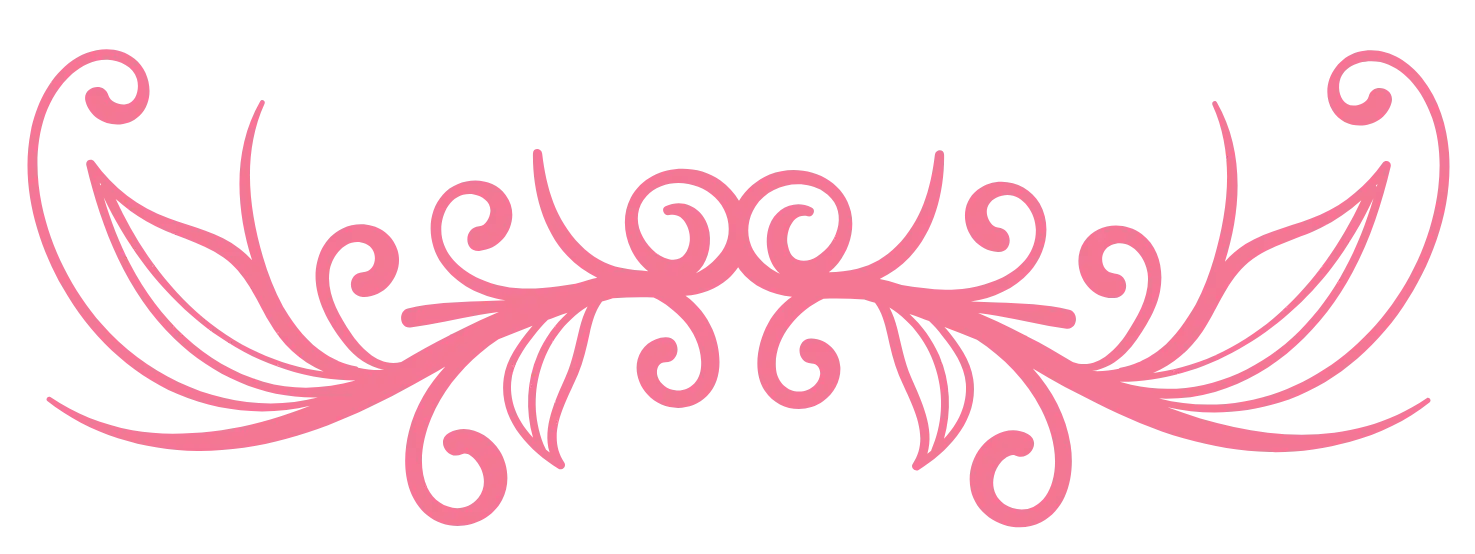
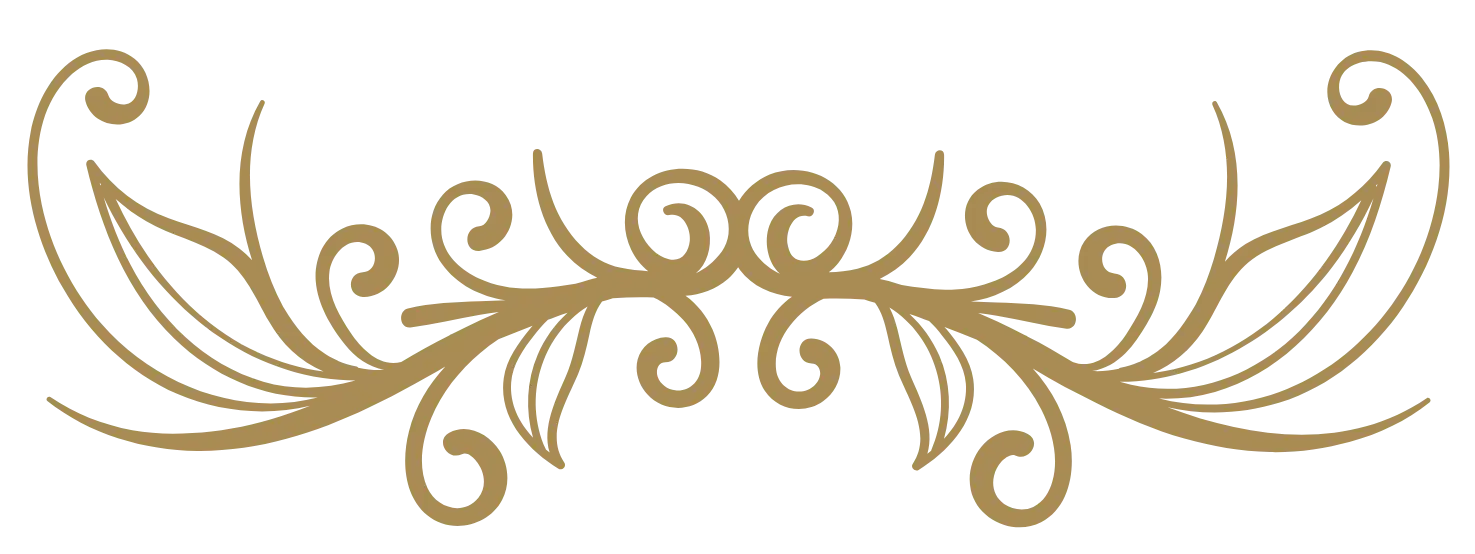
style (colors): update title and decorators colors

diff --git a/components/title.jsx b/components/title.jsx
@@ -6,7 +6,7 @@ export default function Title({children}) {
     <h2
       className={`
         text-4xl
-        text-pink-dark
+        text-golden
         ${fontTitle.className}
         mt-28
         mb-10

diff --git a/tailwind.config.js b/tailwind.config.js
@@ -24,6 +24,7 @@ module.exports = {
       "white": '#ffe8ea',
       "bg": '#fbe1e7',
       "black": '#26070e',
+      "golden": '#a98c54'
     },
     screens: {
       'xs': '475px',
